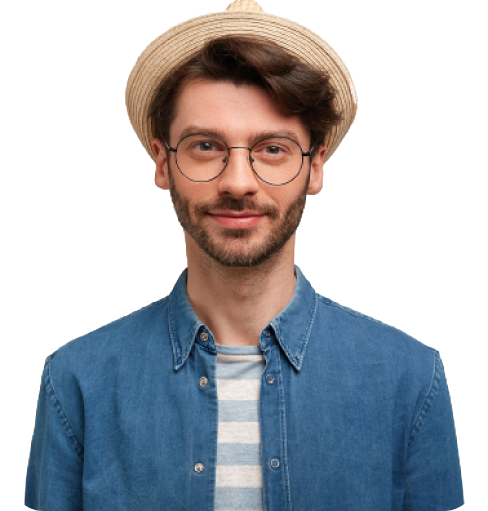
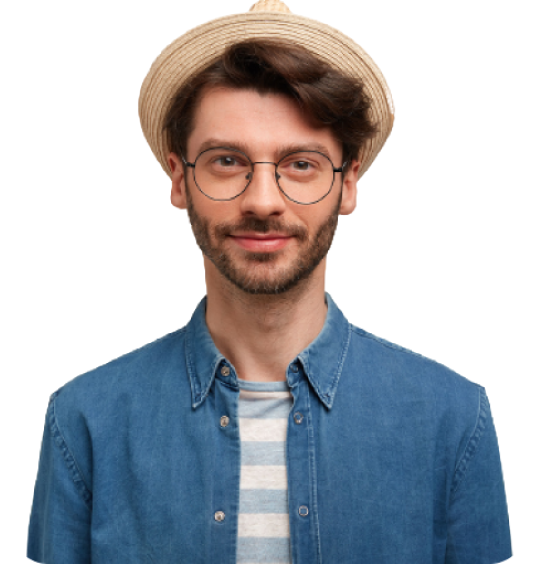
images added

diff --git a/style.css b/style.css
@@ -67,22 +67,28 @@ h3 {
   background-size: 20%;
 }
 .developer-image {
-  width: 40%;
+  width: 35%;
 }
 .developer-image img {
-  width: 80%;
+  width: 100%;
 }
 .developer-content {
-  width: 60%;
+  width: 45%;
+}
+.comm-bg-image {
+  background-image: url(images/shapes/shape-1.png);
+  background-repeat: no-repeat;
+  background-size: 20%;
+  background-position: right;
 }
 .community-content {
-  width: 60%;
+  width: 45%;
 }
 .community-image {
-  width: 40%;
+  width: 35%;
 }
 .community-image img {
-  width: 80%;
+  width: 100%;
 }
 #team-title {
   text-align: center;
@@ -97,14 +103,13 @@ h3 {
 .single-person img {
   width: 100%;
 }
-.single-person h3{
-  text-align:center;
+.single-person h3 {
+  text-align: center;
 }
-.footer-area{
-  text-align:center;
-  margin-top:250px;
-  background-color:rgb(226, 174, 76);
-  color:white;
-  padding:10px;
+.footer-area {
+  text-align: center;
+  margin-top: 250px;
+  background-color: rgb(226, 174, 76);
+  color: white;
+  padding: 10px;
 }
-

diff --git a/index.html b/index.html
@@ -94,7 +94,7 @@
       </div>
     </section>
 
-    <section class="community-area">
+    <section class="community-area comm-bg-image">
       <div class="flex-container">
         <div class="community-content">
           <h3>
@@ -121,7 +121,7 @@
       <h1 id="team-title">Work With Our Team</h1>
       <div class="flex-container">
         <div class="single-person">
-          <img src="images/person/person-1.png" alt="" />
+          <img src="images/person/person-3.png" alt="" />
           <h3>
             Frank <br />
             <span class="tomato-color">Great Designer</span>
@@ -137,7 +137,7 @@
         <div class="single-person">
           <img src="images/person/person-3.png" alt="" />
           <h3>
-            Stive <br />
+            Steav <br />
             <span class="tomato-color">Great Designer</span>
           </h3>
         </div>
